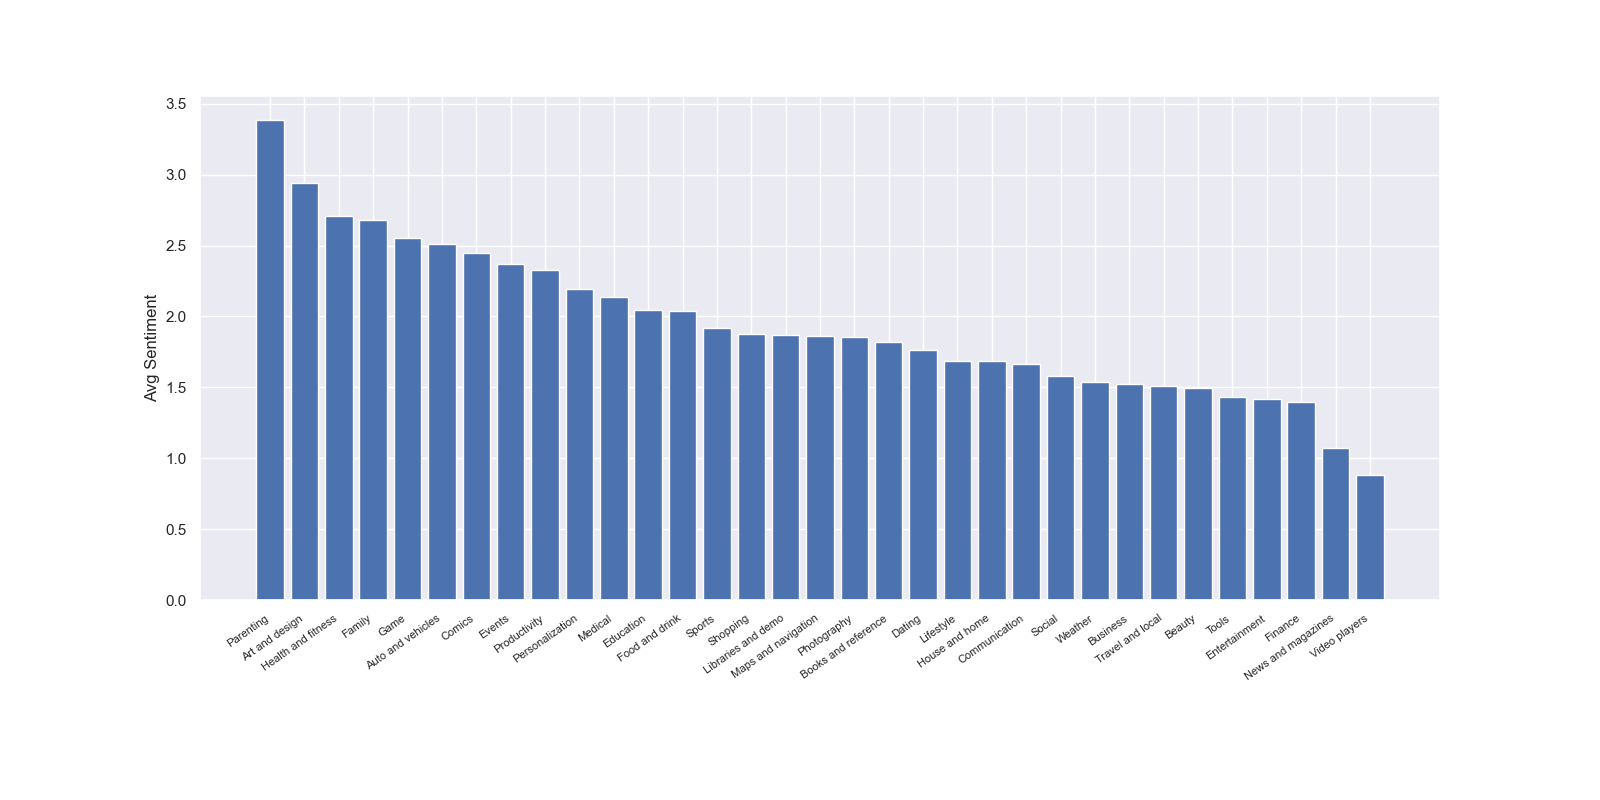
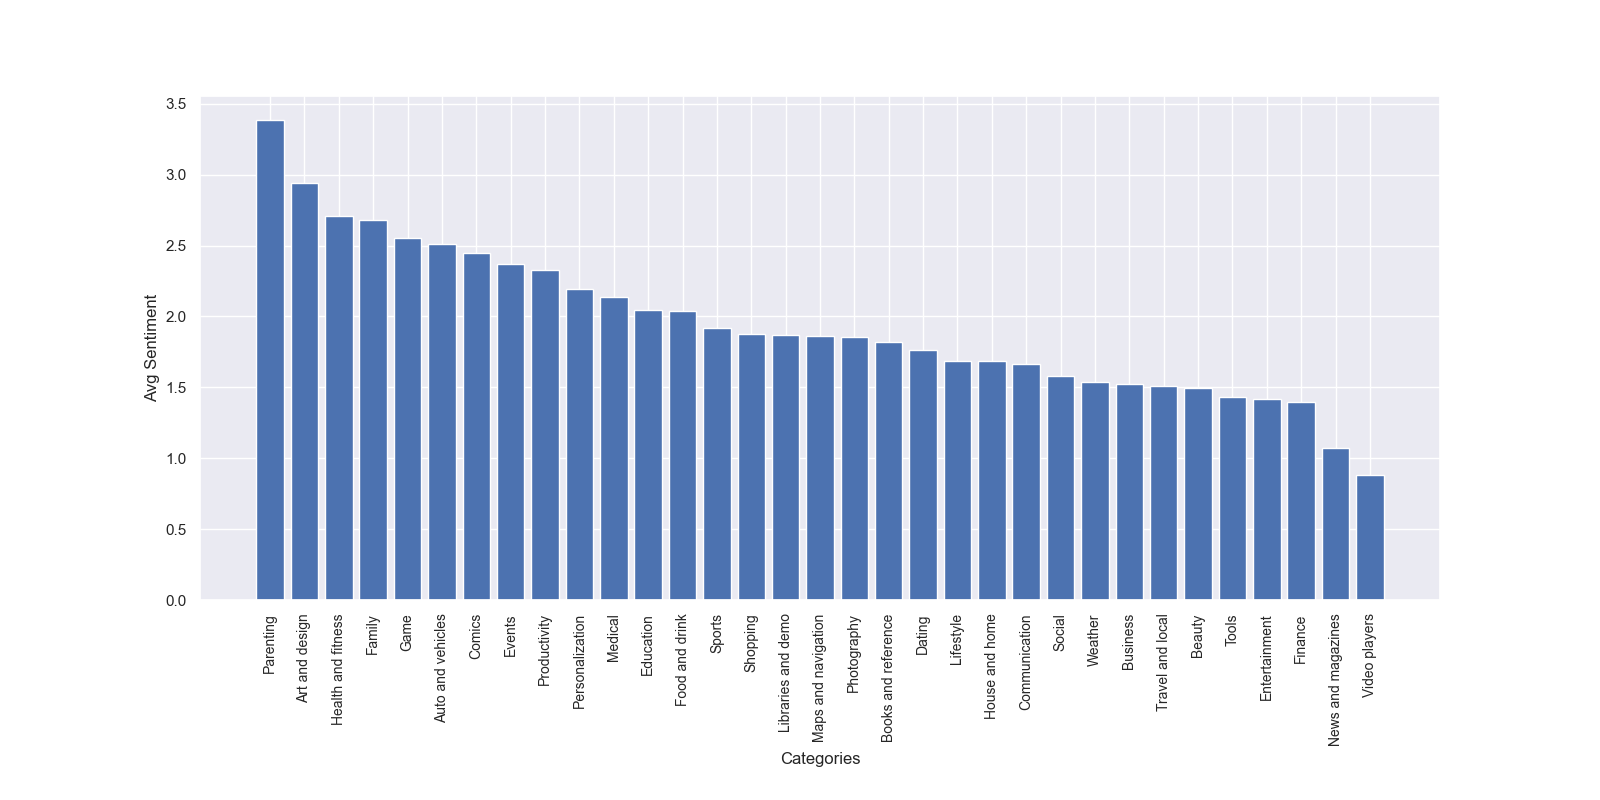
Updating visualizer class

diff --git a/progetto_2/src/DataVisualizer.py b/progetto_2/src/DataVisualizer.py
@@ -29,17 +29,17 @@ class DataVisualizer:
             self.correlation_heatmap(df)
             self.sent_category_hbar(df_all)
         elif self.library == 'matplotlib':
-            '''self.barh_by_grouping(df, column="Rating", group_by="Category", agg='sum')
+            self.barh_by_grouping(df, column="Rating", group_by="Category", agg='sum')
             self.scatter_plot(df, 'Installs', 'Reviews')
             self.countplot(df, var='Category', hue='Type')
             self.grouped_rating(df, ["Category", "Type"], "Rating")                          #average Rating devided in free and paid Apps for each Category
             self.grouped_rating(df, "Category", "Rating")                                    #average Rating per Category
             self.popularity_score(df)                                                        #top 10 Apps by Popularity (Rating*Installs)
             self.rating_counter(df, "Rating", "Category")                                    #number of Apps in each Category for each Rating range
-            self.rating_counter(df, "Rating", "Type") 
-            self.growth_trend(df)'''
+            self.rating_counter(df, "Rating", "Type")
+            self.growth_trend(df)
             self.correlation_heatmap(df)
-            #self.sent_category_hbar(df_all)
+            self.sent_category_hbar(df_all)
 
     def barh_by_grouping(self, df, column, group_by, agg):
         data = df.groupby(by=group_by)[column].agg(agg).reset_index()
@@ -208,7 +208,7 @@ class DataVisualizer:
             else:
                 df_group = df.groupby(by)[column].mean().unstack().sort_values(["Free", "Paid"], ascending = [ascending, ascending]).reset_index().head(n)
                 df_melted = pd.melt(df_group, id_vars= "Category", var_name='Type', value_name='Rating')
-                sns.barplot(x= "Category", y= "Rating", data=df_melted, hue= "Type", palette= ["blue", "grey"])
+                sns.barplot(x= "Category", y= "Rating", data=df_melted, hue= "Type", palette= ["blue", "yellow"])
                 ax.set_ylabel("Rating")
                 ax.set_xticklabels(df_melted.Category.unique(), rotation=90)
                 ax.set_title("Average Rating of free and paid Apps in each Category")
@@ -226,7 +226,7 @@ class DataVisualizer:
                 plt.xticks(rotation= "vertical")
                 plt.title(f"Rating distribution by {by} sorted by highest average")
                 if self.save:
-                    plt.savefig('./database/output/graphs/Rating_distribution_by_category_sns.png')
+                    plt.savefig('./database/output/graphs/Rating_distribution_by_category_mat.png')
 
             else:
                 df_group = df.groupby(by)[column].mean().unstack().sort_values(["Free", "Paid"], ascending = [ascending, ascending]).head(n)
@@ -340,7 +340,7 @@ class DataVisualizer:
                     plt.savefig('./database/output/graphs/rating_counter_category_mat.png')   
             elif "Type" in by:
                 data.columns = ["4-5", "3-4", "2-3", "1-2"]
-                 
+                
                 data = data.sort_values(by= ["4-5", "3-4", "2-3", "1-2"], ascending= [ascending,ascending,ascending,ascending])
                 x = np.arange(df[by].nunique())*1.75
                 x1 = data["4-5"]
@@ -394,16 +394,17 @@ class DataVisualizer:
             plt.title('Growth of number of Apps by Category Over Time')
             plt.xlabel('Year')
             plt.ylabel('Average Number of Apps')
+            if self.save:
+                plt.savefig('./database/output/graphs/growth_trend_sns.png')
         else:
             trend.plot(kind='line', figsize=(10,5))
             plt.title('Growth of number of Apps by Category Over Time')
             plt.xlabel('Year')
             plt.ylabel('Average Number of Apps')
-        
+            if self.save:
+                plt.savefig('./database/output/graphs/growth_trend_mat.png')
         if self.show:
             plt.show()
-        if self.save:
-            plt.savefig('./database/output/graphs/growth_trend.png')
 
 
 # Creates a heatmap for the correlation matrix of a dataframe.
@@ -467,7 +468,7 @@ class DataVisualizer:
             x = np.arange(len(data.index))
             width = 0.35
             sns.barplot(x= data.index.astype(str), y= data.values, data= data, order= data.sort_values(ascending= False), color='b')
-            ax.set_xticks(x + width, data.index, rotation= "vertical")
+            ax.set_xticks(x + width, data.index)
             ax.set(xlabel= "Categories", ylabel= "Sentiment Score")
             if self.save:
                 plt.savefig('./database/output/graphs/sentiment_by_category_sns.png')
@@ -475,7 +476,8 @@ class DataVisualizer:
         else:
             data = data.sort_values(ascending= False)
             plt.bar(data.index, data.values)
-            plt.xticks(rotation= 35, ha= "right", fontsize= 8)
+            plt.xticks(rotation= 'vertical', fontsize= 10)
+            plt.xlabel(xlabel= "Categories")
             plt.ylabel("Avg Sentiment")
             if self.save:
                 plt.savefig('./database/output/graphs/sentiment_by_category_mat.png')
